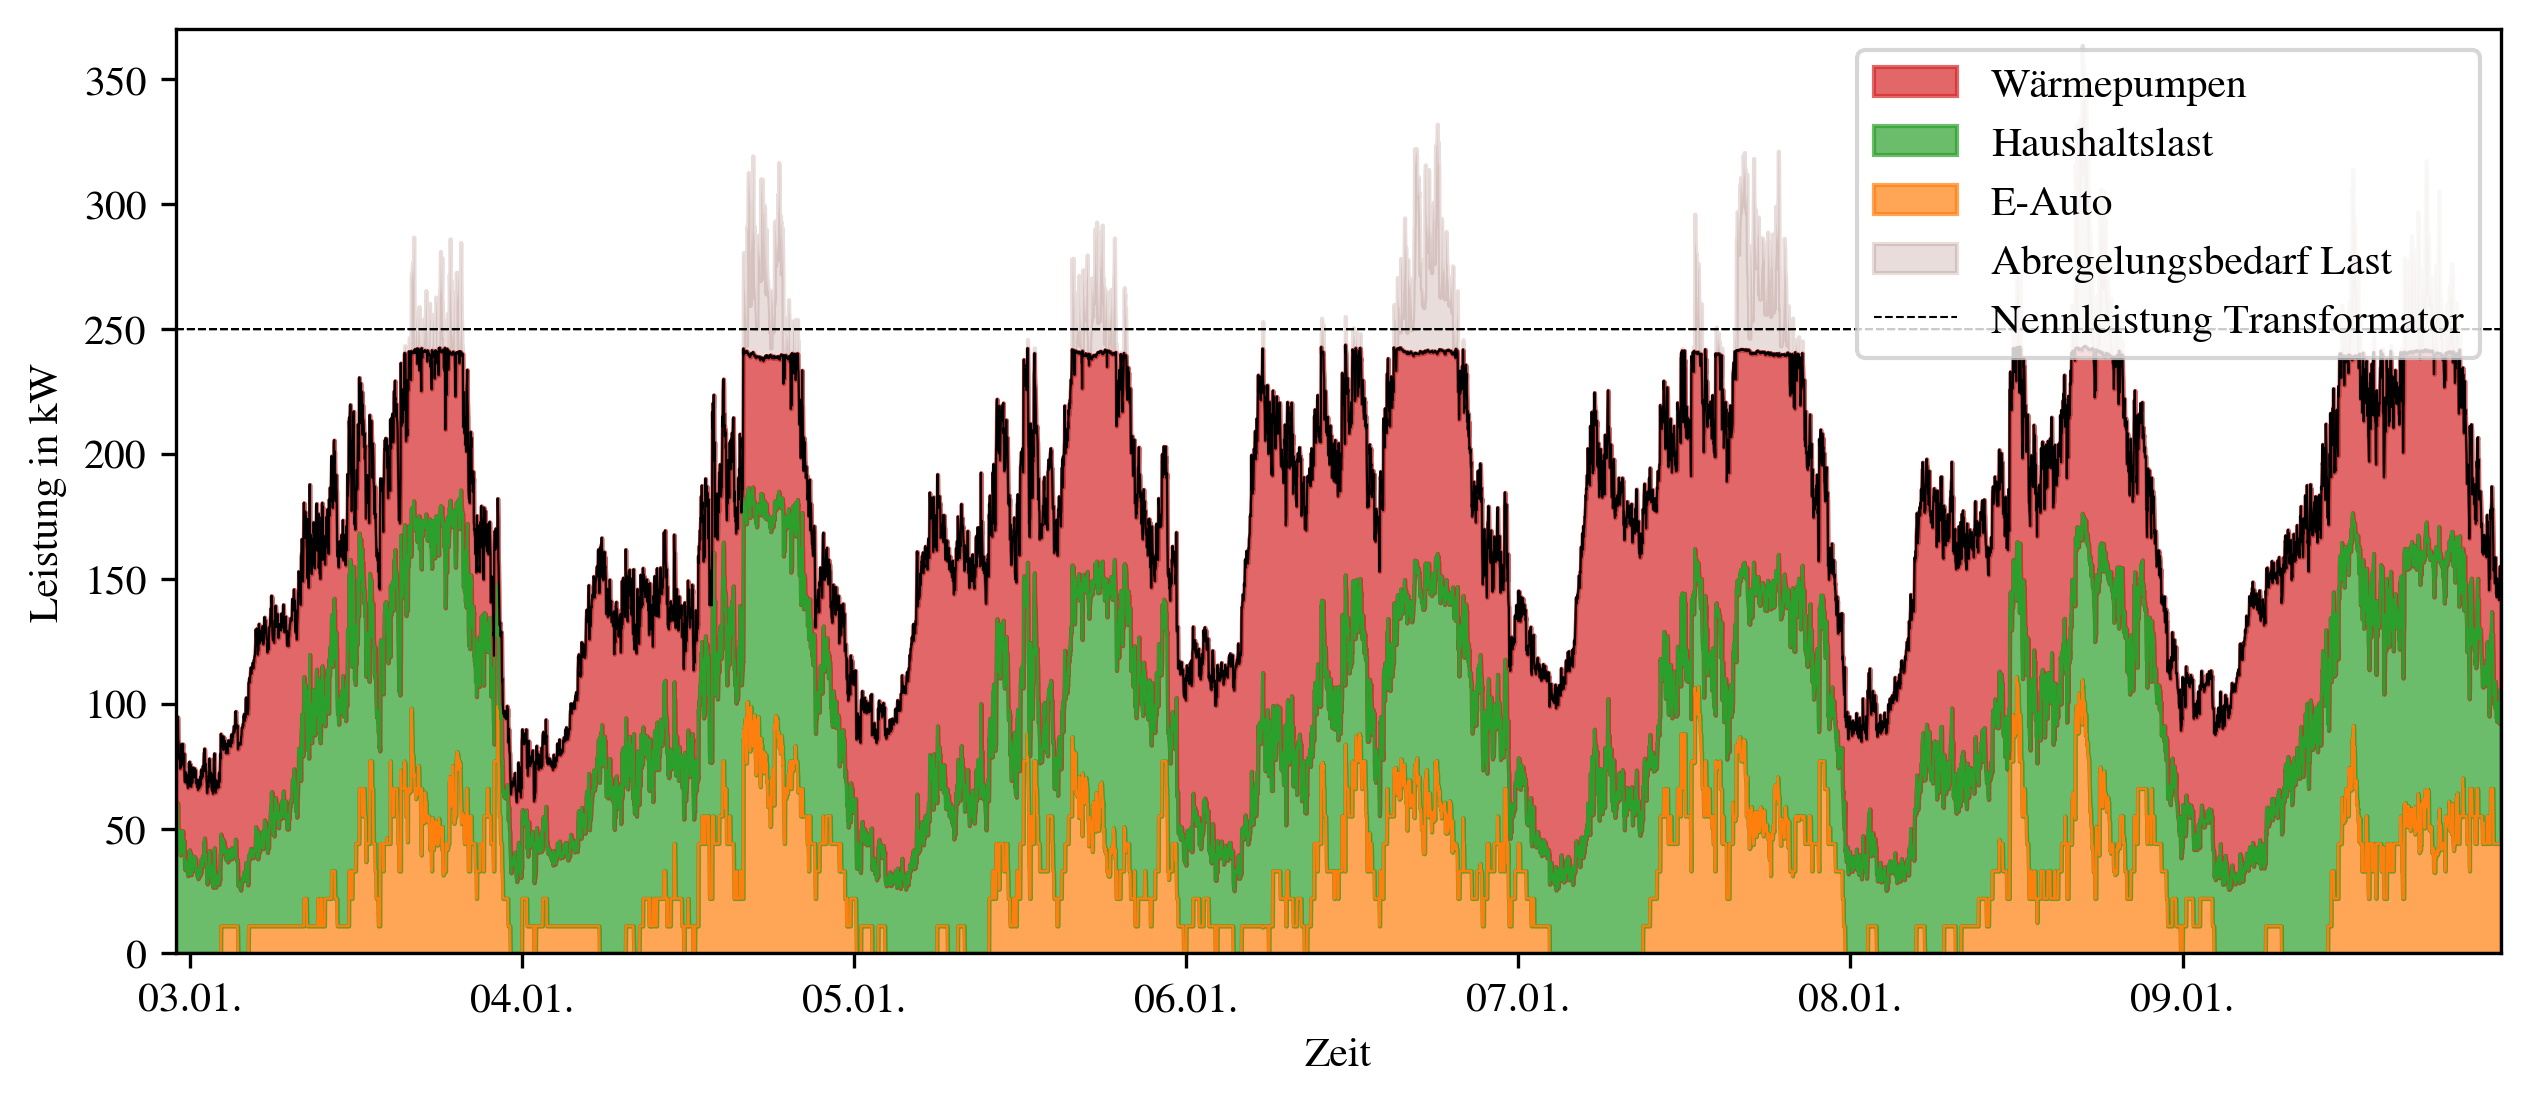
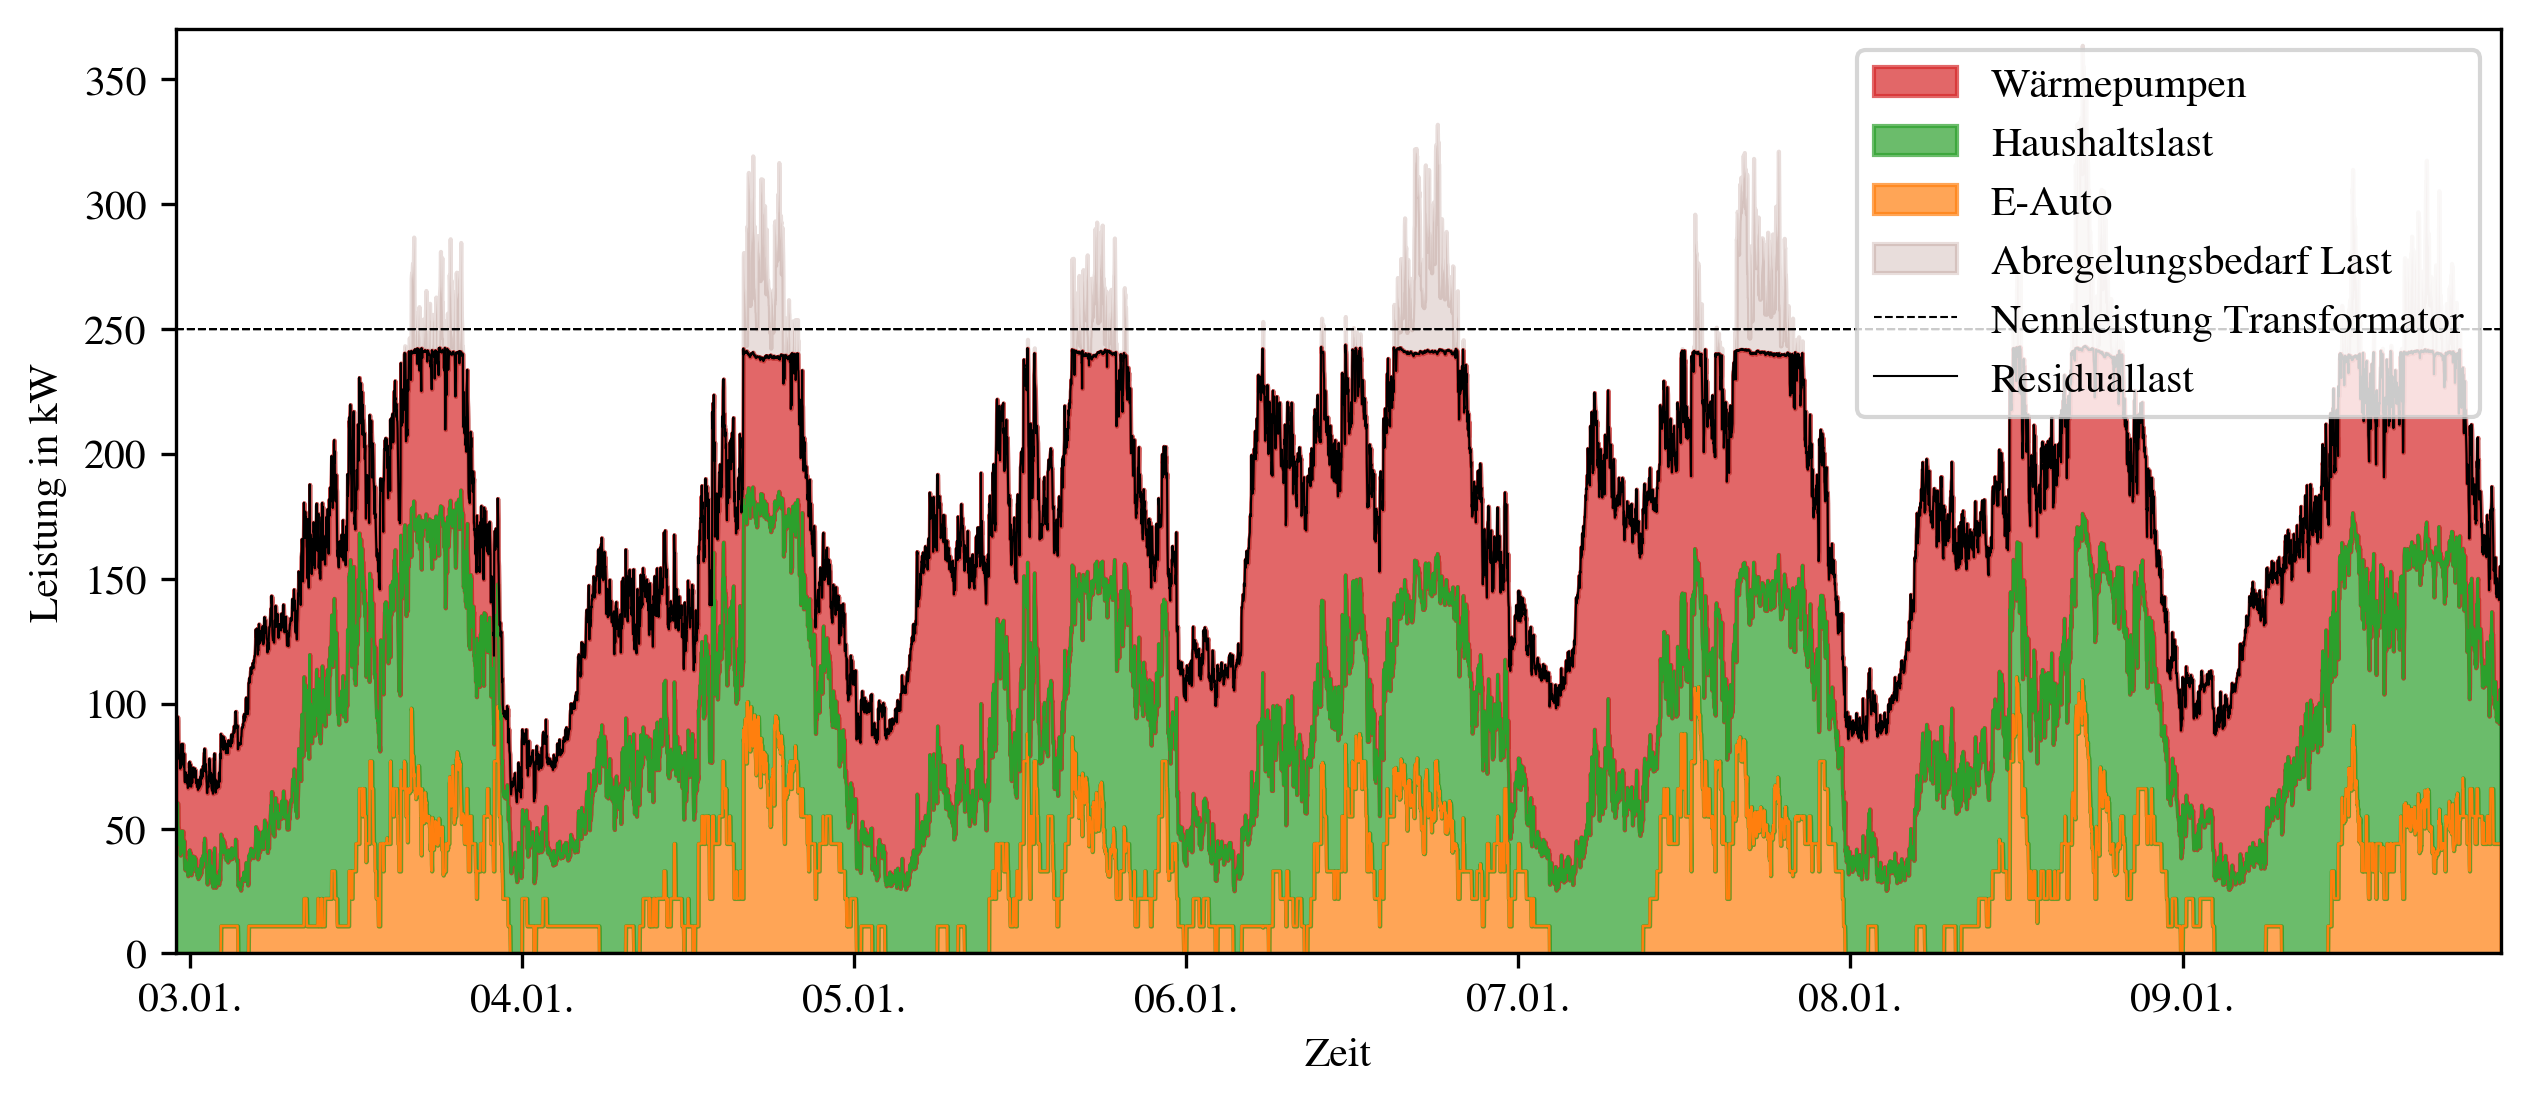
Add new img

Changed region(s): [[0.7494, 0.308, 0.9992, 0.4004]]

diff --git a/src/tools/evaluation/EvaluationSingleCase.py b/src/tools/evaluation/EvaluationSingleCase.py
@@ -290,9 +290,9 @@ class EvaluationSingleCase():
     #storage = self.shorted_data(storage, '1H')
 
     if add_losses:
-      ax.plot(power.index, -power.pv+power.hp+power.load+power.ev-storage_sum+losses, color='black', lw=.5)
+      res_load = ax.plot(power.index, -power.pv+power.hp+power.load+power.ev-storage_sum+losses, color='black', lw=.5, label='Residuallast')[0]
     else:
-      ax.plot(power.index, -power.pv+power.hp+power.load+power.ev-storage_sum, color='black', lw=.5)
+      res_load = ax.plot(power.index, -power.pv+power.hp+power.load+power.ev-storage_sum, color='black', lw=.5, label='Residuallast')[0]
 
 
     l_limit = ax.plot(power*0+250, '--k', lw=.5, label='Nennleistung Transformator')[0]
@@ -311,9 +311,10 @@ class EvaluationSingleCase():
          mpatches.Patch(color=c[2], alpha=0.7, label='Haushaltslast'),
          #mpatches.Patch(color=c[3], alpha=0.7, label='Heat pump load'),
          #mpatches.Patch(color=c[4], alpha=0.7, label='Storage')
-         l_limit
+         l_limit,
+         res_load
                  ]
-      plt.legend(handles=patch_list)
+      plt.legend(handles=patch_list, loc='upper right')
 
     plt.savefig('img/xx_sc1.png', format='png', bbox_inches='tight', dpi=300)
 
@@ -386,9 +387,9 @@ class EvaluationSingleCase():
     #storage = self.shorted_data(storage, '1H')
 
     if add_losses:
-      ax.plot(power.index, -power.pv+power.hp+power.load+power.ev-storage_sum+losses, color='black', lw=.5)
+      res_load = ax.plot(power.index, -power.pv+power.hp+power.load+power.ev-storage_sum+losses, color='black', lw=.5, label='Residuallast')[0]
     else:
-      ax.plot(power.index, -power.pv+power.hp+power.load+power.ev-storage_sum, color='black', lw=.5)
+      res_load = ax.plot(power.index, -power.pv+power.hp+power.load+power.ev-storage_sum, color='black', lw=.5, label='Residuallast')[0]
 
 
     l_limit = ax.plot(power*0+250, '--k', lw=.5, label='Nennleistung Transformator')[0]
@@ -408,13 +409,213 @@ class EvaluationSingleCase():
          mpatches.Patch(color=c[1], alpha=0.7, label='E-Auto'),
          mpatches.Patch(color=c[5], alpha=0.2, label='Abregelungsbedarf Last'),
          #mpatches.Patch(color=c[4], alpha=0.7, label='Storage')
-         l_limit
+         l_limit,
+         res_load
                  ]
       plt.legend(handles=patch_list, loc='upper right')
 
     plt.savefig('img/xx_sc2.png', format='png', bbox_inches='tight', dpi=300)
 
     plt.show()
+
+  def plot_residualload_scenario_3(self, add_curtail, add_losses):
+    prop_cycle = plt.rcParams['axes.prop_cycle']
+    c = prop_cycle.by_key()['color']
+
+    power = self.power*1000
+    curtailed_pv = self.curtailed_power_pv.sum(axis=1)*1000
+    curtailed_load = self.curtailed_power_load.sum(axis=1)*1000
+    curtailed = pd.DataFrame()
+    curtailed['curtail_pv'] = curtailed_pv
+    curtailed['curtail_load'] = curtailed_load
+    #try:
+    losses = self.losses_p.sum(axis=1)*1000
+    #except:
+    #  losses = curtailed['curtail_pv']*0
+    '''
+    storage = -self.storage_p.sum(axis=1)*1000
+    storage_sum = storage.copy()
+    storage_charge = storage.copy()
+    storage_charge[storage_charge > 0] = 0
+    storage_charge = -storage_charge
+    storage_charge = pd.Series(storage_charge[0])
+    storage_discharge = storage.copy()
+    storage_discharge[storage_discharge < 0] = 0
+    storage_discharge = pd.Series(storage_discharge[0])
+    '''
+    storage = -self.storage_p*1000
+    storage_sum = storage.sum(axis=1)
+    storage_charge = storage.copy()
+    storage_charge[storage_charge > 0] = 0
+    storage_charge = -storage_charge
+    storage_charge = storage_charge.sum(axis=1)
+
+    storage_discharge = storage.copy()
+    storage_discharge[storage_discharge < 0] = 0
+    storage_discharge = storage_discharge.sum(axis=1)
+
+    fig, ax = plt.subplots(figsize=(fig_x, fig_y))
+
+    ax.fill_between(power.index,            power.ev*0,                                    power.load, alpha=0.7, color=c[2])
+    #ax.fill_between(power.index,              power.ev,                       power.load + power.ev, alpha=0.7, color=c[2])
+    #ax.fill_between(power.index, power.load + power.ev,            power.load + power.ev + power.hp, alpha=0.7, color=c[3])
+    ax.fill_between(power.index,                     -storage_discharge,                     -storage_discharge - power.pv, alpha=0.7, color=c[0])
+    #ax.fill_between(power.index,                         storage_charge,                         power.ev + storage_charge, alpha=0.7, color=c[1])
+    #ax.fill_between(power.index,              power.ev + storage_charge,            power.load + power.ev + storage_charge, alpha=0.7, color=c[2])
+    #ax.fill_between(power.index, power.load + power.ev + storage_charge, power.hp + power.load + power.ev + storage_charge, alpha=0.7, color=c[3])
+    #ax.fill_between(power.index, 0 , storage_charge     , alpha=0.7, color=c[4])
+    #ax.fill_between(power.index, 0 , -storage_discharge , alpha=0.7, color=c[4])
+    if add_curtail:
+      ax.fill_between(power.index, power.hp + power.load + power.ev + storage_charge, power.hp + power.load + power.ev + storage_charge + curtailed.curtail_load, alpha=0.2, color=c[5])
+      ax.fill_between(power.index,                     -storage_discharge - power.pv,                       -storage_discharge - power.pv - curtailed.curtail_pv, alpha=0.2, color=c[0])
+    if add_losses:
+      ax.fill_between(power.index, power.hp + power.load + power.ev + storage_charge, power.hp + power.load + power.ev + storage_charge + losses, alpha=0.7, color=c[8])
+
+    ax.plot(power.index, -storage_discharge-power.pv, lw=.6, color=c[0])
+    #ax.plot(power.index, power.ev, lw=.6, color=c[1])
+    ax.plot(power.index, power.load+power.ev, lw=.6, color=c[2])
+    #ax.plot(power.index, power.hp+power.load+power.ev, lw=.6, color=c[3])
+    #ax.plot(storage.index, storage_charge    , lw=.6)
+    #ax.plot(storage.index, -storage_discharge, lw=.6)
+    if add_losses:
+      ax.plot(power.index, storage_charge+power.hp+power.load+power.ev + losses, color=c[8], lw=.6)
+
+    #power = self.shorted_data(power, '1H')
+    #storage = self.shorted_data(storage, '1H')
+
+    if add_losses:
+      res_load = ax.plot(power.index, -power.pv+power.hp+power.load+power.ev-storage_sum+losses, color='black', lw=.5, label='Residuallast')[0]
+    else:
+      res_load = ax.plot(power.index, -power.pv+power.hp+power.load+power.ev-storage_sum, color='black', lw=.5, label='Residuallast')[0]
+
+
+    l_limit = ax.plot(power*0+250, '--k', lw=.5, label='Nennleistung Transformator')[0]
+    l_limit = ax.plot(power*0-250, '--k', lw=.5, label='Nennleistung Transformator')[0]
+
+    ax.set_xlabel('Zeit')
+    ax.set_ylabel('Leistung in kW')
+
+    ax.set(xlim=(power.index[0], power.index[-1]), ylim=(-1300, 300))
+
+    ax.xaxis.set_major_formatter(mdates.DateFormatter('%d.%m.'))
+
+    if add_curtail and not add_losses:
+      patch_list = [
+         #mpatches.Patch(color=c[3], alpha=0.7, label='Wärmepumpen'),
+         mpatches.Patch(color=c[2], alpha=0.7, label='Haushaltslast'),
+         #mpatches.Patch(color=c[1], alpha=0.7, label='E-Auto'),
+         #mpatches.Patch(color=c[5], alpha=0.2, label='Abregelungsbedarf Last'),
+         mpatches.Patch(color=c[0], alpha=0.7, label='Photovoltaik'),
+         mpatches.Patch(color=c[0], alpha=0.2, label='Abregelungsbedarf Photovoltaik'),
+         #mpatches.Patch(color=c[4], alpha=0.7, label='Storage'),
+         l_limit,
+         res_load
+                 ]
+      plt.legend(handles=patch_list, loc='lower right')
+
+    plt.savefig('img/xx_sc3.png', format='png', bbox_inches='tight', dpi=300)
+
+    plt.show()
+
+  def plot_residualload_scenario_4(self, add_curtail, add_losses):
+    prop_cycle = plt.rcParams['axes.prop_cycle']
+    c = prop_cycle.by_key()['color']
+
+    power = self.power*1000
+    curtailed_pv = self.curtailed_power_pv.sum(axis=1)*1000
+    curtailed_load = self.curtailed_power_load.sum(axis=1)*1000
+    curtailed = pd.DataFrame()
+    curtailed['curtail_pv'] = curtailed_pv
+    curtailed['curtail_load'] = curtailed_load
+    #try:
+    losses = self.losses_p.sum(axis=1)*1000
+    #except:
+    #  losses = curtailed['curtail_pv']*0
+    '''
+    storage = -self.storage_p.sum(axis=1)*1000
+    storage_sum = storage.copy()
+    storage_charge = storage.copy()
+    storage_charge[storage_charge > 0] = 0
+    storage_charge = -storage_charge
+    storage_charge = pd.Series(storage_charge[0])
+    storage_discharge = storage.copy()
+    storage_discharge[storage_discharge < 0] = 0
+    storage_discharge = pd.Series(storage_discharge[0])
+    '''
+    storage = -self.storage_p*1000
+    storage_sum = storage.sum(axis=1)
+    storage_charge = storage.copy()
+    storage_charge[storage_charge > 0] = 0
+    storage_charge = -storage_charge
+    storage_charge = storage_charge.sum(axis=1)
+
+    storage_discharge = storage.copy()
+    storage_discharge[storage_discharge < 0] = 0
+    storage_discharge = storage_discharge.sum(axis=1)
+
+    fig, ax = plt.subplots(figsize=(fig_x, fig_y))
+
+    ax.fill_between(power.index,            power.ev*0,                                    power.ev, alpha=0.7, color=c[1])
+    ax.fill_between(power.index,              power.ev,                       power.load + power.ev, alpha=0.7, color=c[2])
+    ax.fill_between(power.index, power.load + power.ev,            power.load + power.ev + power.hp, alpha=0.7, color=c[3])
+    ax.fill_between(power.index,                     -storage_discharge,                     -storage_discharge - power.pv, alpha=0.7, color=c[0])
+    #ax.fill_between(power.index,                         storage_charge,                         power.ev + storage_charge, alpha=0.7, color=c[1])
+    #ax.fill_between(power.index,              power.ev + storage_charge,            power.load + power.ev + storage_charge, alpha=0.7, color=c[2])
+    #ax.fill_between(power.index, power.load + power.ev + storage_charge, power.hp + power.load + power.ev + storage_charge, alpha=0.7, color=c[3])
+    #ax.fill_between(power.index, 0 , storage_charge     , alpha=0.7, color=c[4])
+    #ax.fill_between(power.index, 0 , -storage_discharge , alpha=0.7, color=c[4])
+    if add_curtail:
+      ax.fill_between(power.index, power.hp + power.load + power.ev + storage_charge, power.hp + power.load + power.ev + storage_charge + curtailed.curtail_load, alpha=0.2, color=c[5])
+      ax.fill_between(power.index,                     -storage_discharge - power.pv,                       -storage_discharge - power.pv - curtailed.curtail_pv, alpha=0.2, color=c[0])
+    if add_losses:
+      ax.fill_between(power.index, power.hp + power.load + power.ev + storage_charge, power.hp + power.load + power.ev + storage_charge + losses, alpha=0.7, color=c[8])
+
+    ax.plot(power.index, -storage_discharge-power.pv, lw=.6, color=c[0])
+    ax.plot(power.index, power.ev, lw=.6, color=c[1])
+    ax.plot(power.index, power.load+power.ev, lw=.6, color=c[2])
+    ax.plot(power.index, power.hp+power.load+power.ev, lw=.6, color=c[3])
+    #ax.plot(storage.index, storage_charge    , lw=.6)
+    #ax.plot(storage.index, -storage_discharge, lw=.6)
+    if add_losses:
+      ax.plot(power.index, storage_charge+power.hp+power.load+power.ev + losses, color=c[8], lw=.6)
+
+    #power = self.shorted_data(power, '1H')
+    #storage = self.shorted_data(storage, '1H')
+
+    if add_losses:
+      res_load = ax.plot(power.index, -power.pv+power.hp+power.load+power.ev-storage_sum+losses, color='black', lw=.5, label='Residuallast')[0]
+    else:
+      res_load = ax.plot(power.index, -power.pv+power.hp+power.load+power.ev-storage_sum, color='black', lw=.5, label='Residuallast')[0]
+
+
+    l_limit = ax.plot(power*0+250, '--k', lw=.5, label='Nennleistung Transformator')[0]
+    l_limit = ax.plot(power*0-250, '--k', lw=.5, label='Nennleistung Transformator')[0]
+
+    ax.set_xlabel('Zeit')
+    ax.set_ylabel('Leistung in kW')
+
+    ax.set(xlim=(power.index[0], power.index[-1]), ylim=(-1300, 400))
+
+    ax.xaxis.set_major_formatter(mdates.DateFormatter('%d.%m.'))
+
+    if add_curtail and not add_losses:
+      patch_list = [
+         mpatches.Patch(color=c[3], alpha=0.7, label='Wärmepumpen'),
+         mpatches.Patch(color=c[2], alpha=0.7, label='Haushaltslast'),
+         mpatches.Patch(color=c[1], alpha=0.7, label='E-Auto'),
+         mpatches.Patch(color=c[5], alpha=0.2, label='Abregelungsbedarf Last'),
+         mpatches.Patch(color=c[0], alpha=0.7, label='Photovoltaik'),
+         mpatches.Patch(color=c[0], alpha=0.2, label='Abregelungsbedarf Photovoltaik'),
+         #mpatches.Patch(color=c[4], alpha=0.7, label='Storage'),
+         l_limit,
+         res_load
+                 ]
+      plt.legend(handles=patch_list, loc='lower right')
+
+    plt.savefig('img/xx_sc4.png', format='png', bbox_inches='tight', dpi=300)
+
+    plt.show()
+
 
 
   def plot_generation_consumption_as_heat_map(self):

diff --git a/src/main_EnergyCell.py b/src/main_EnergyCell.py
@@ -236,6 +236,8 @@ def run_single_simulation():
   #e.eva.plot_residualload(add_curtail=True, add_losses=False)
   #e.eva.plot_residualload_scenario_1(add_curtail=False, add_losses=False)
   e.eva.plot_residualload_scenario_2(add_curtail=True, add_losses=False)
+  #e.eva.plot_residualload_scenario_3(add_curtail=True, add_losses=False)
+  #e.eva.plot_residualload_scenario_4(add_curtail=True, add_losses=False)
   #e.eva.plot_ev_soc()
   #e.eva.plot_generation_consumption_as_heat_map()
   #e.eva.plot_grid_parameter_as_heat_map()
